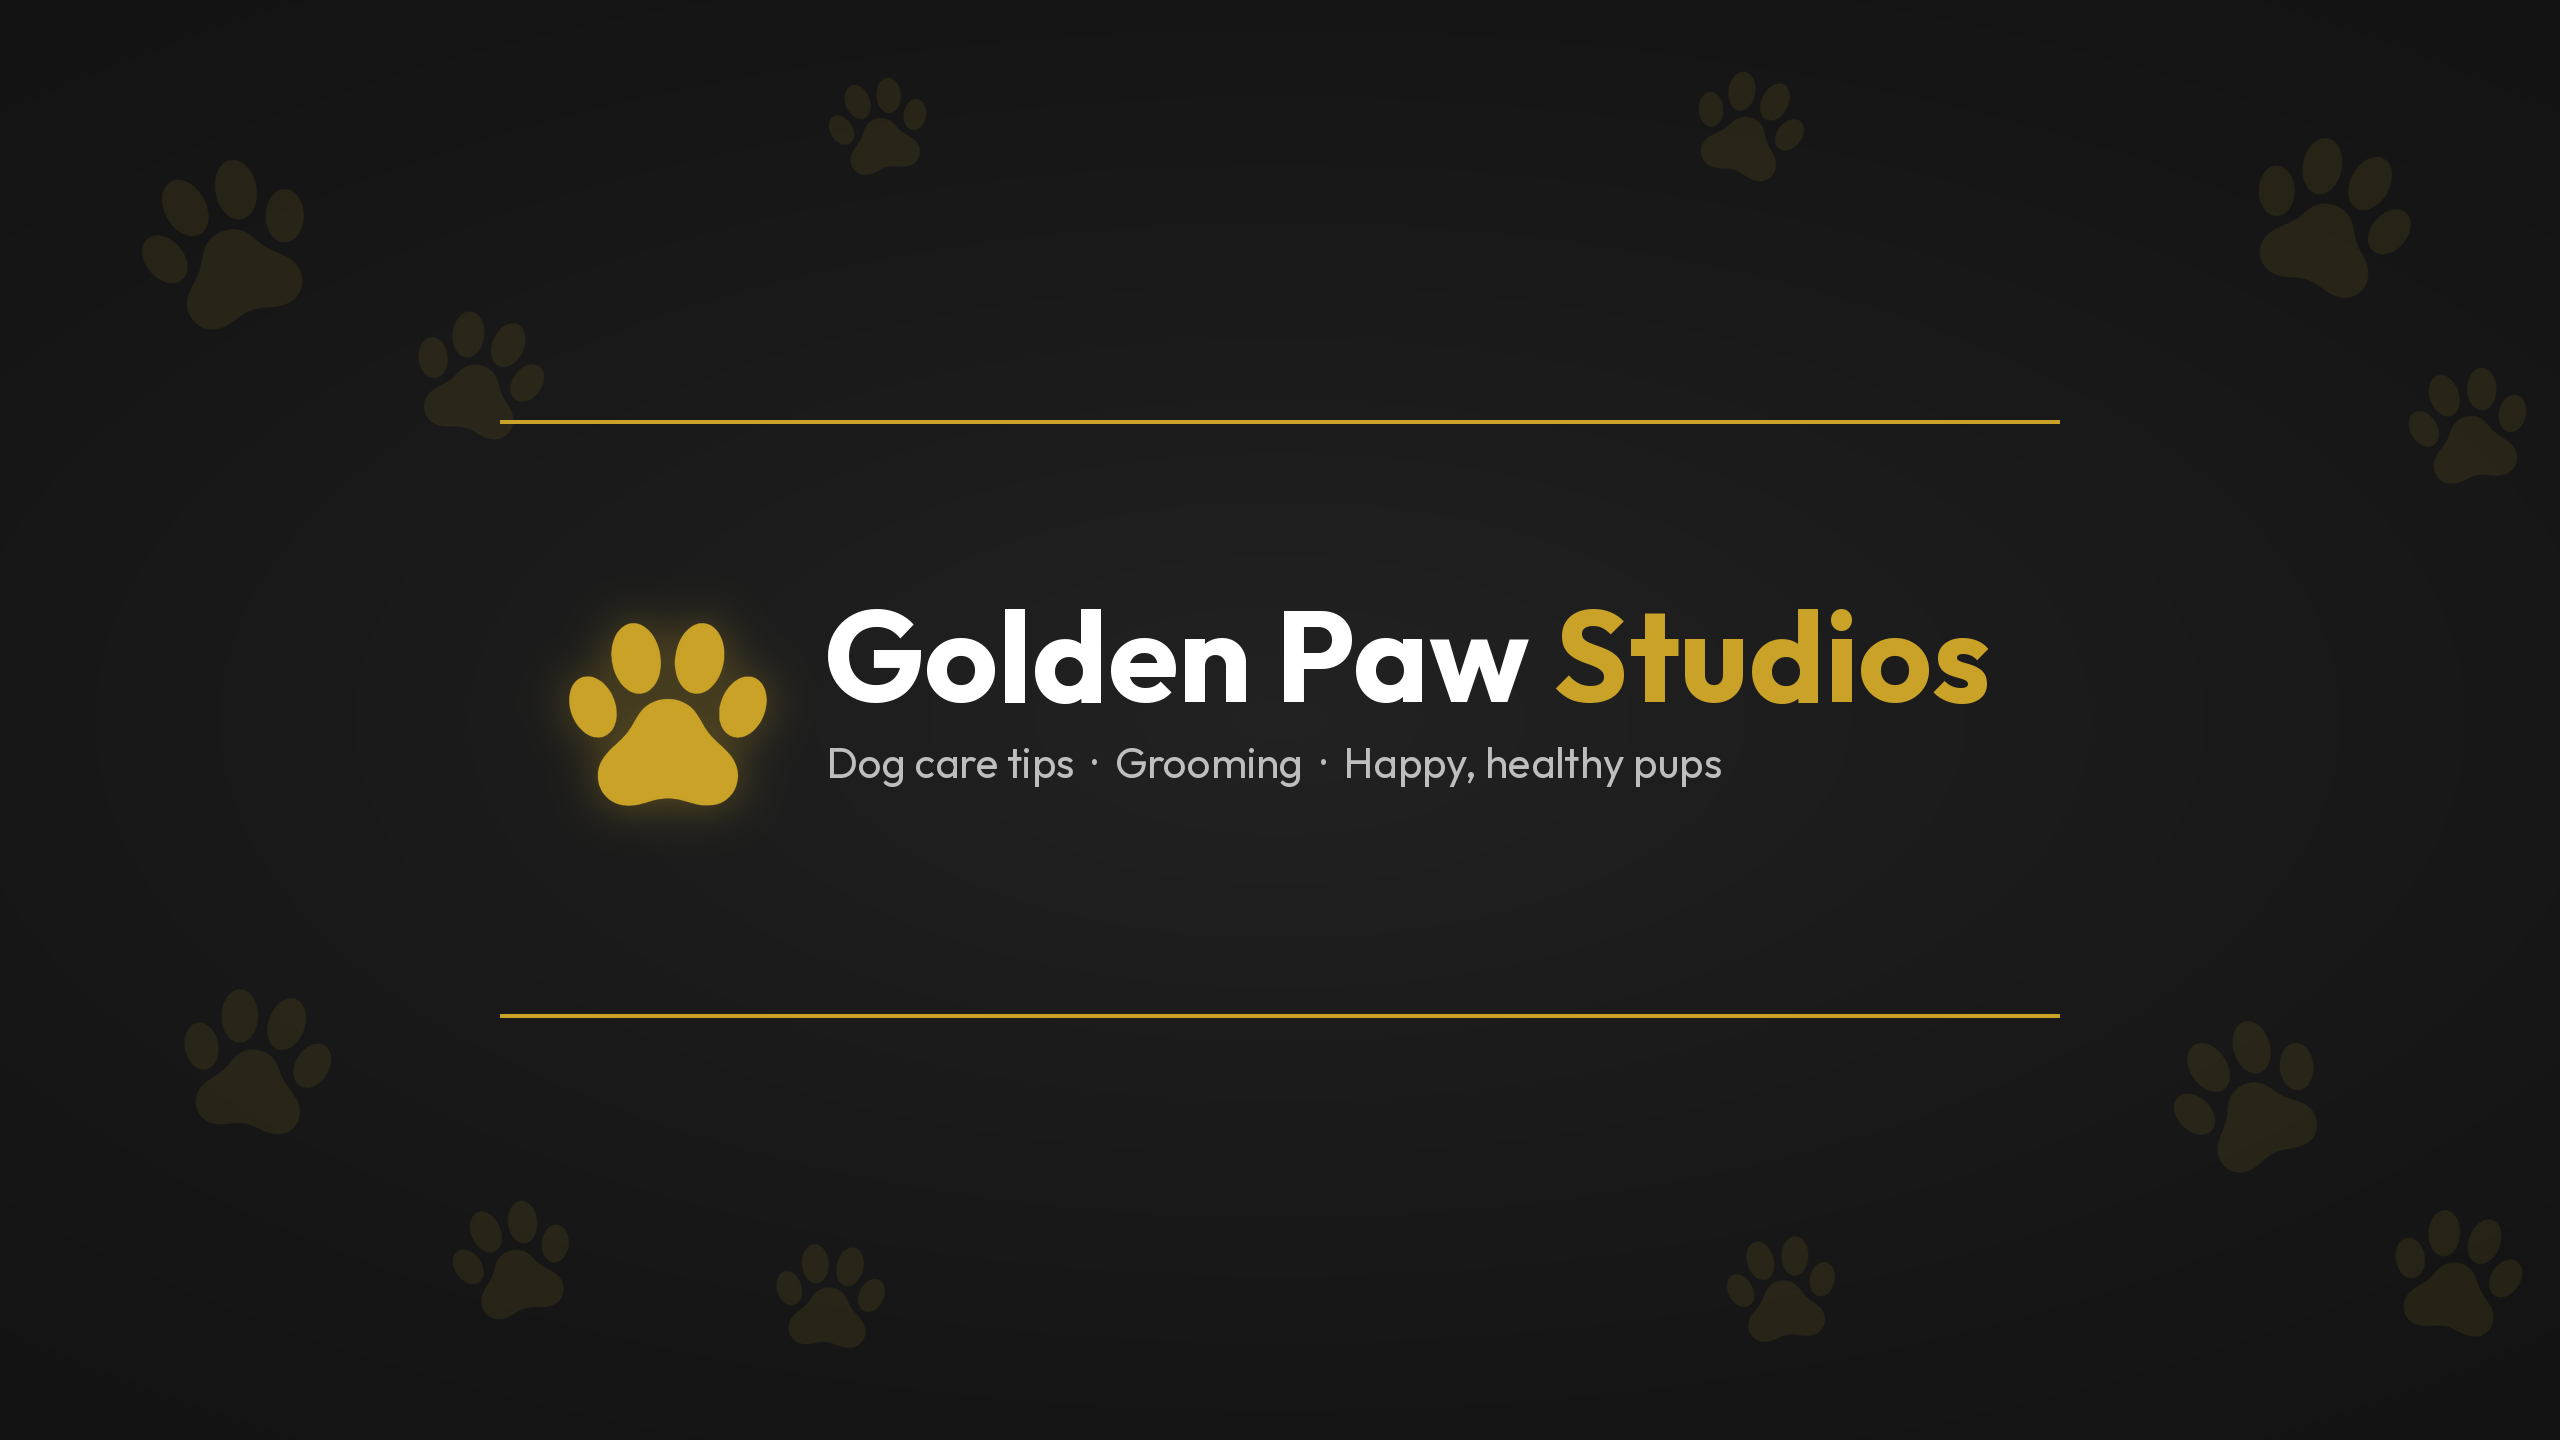
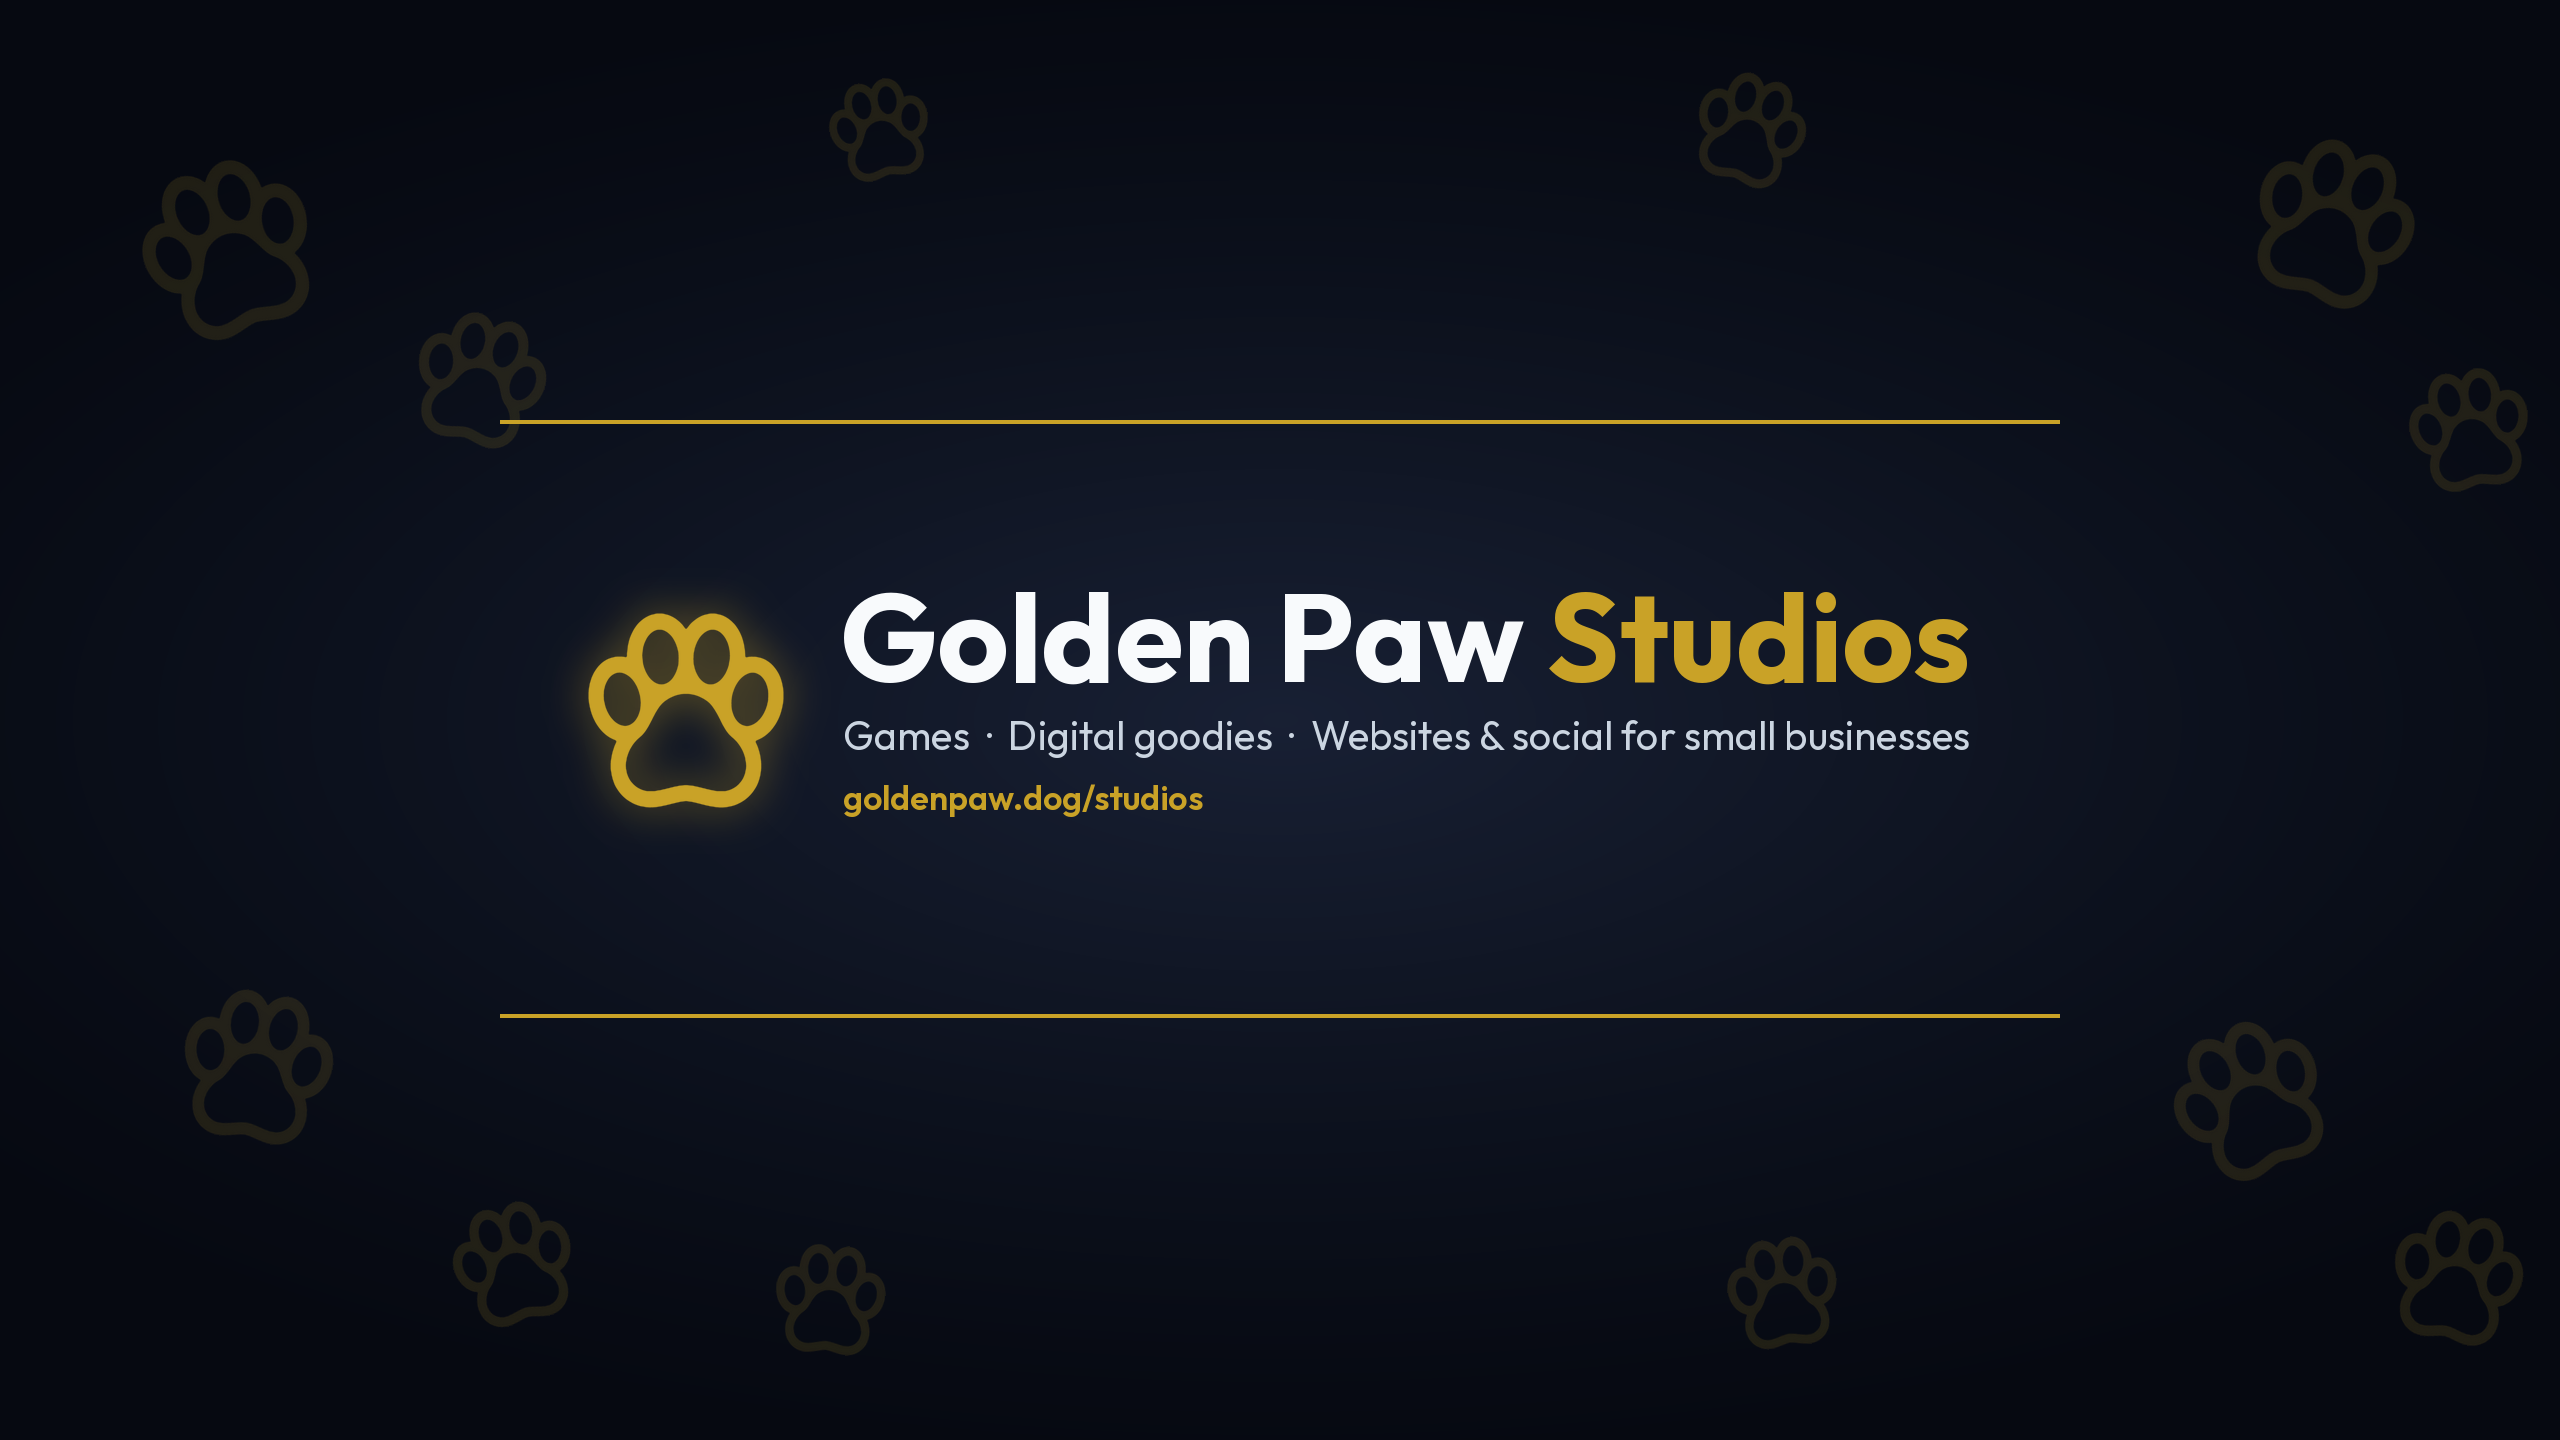
Refocus YouTube branding on Golden Paw Studios services
Navy and gold banner using the Studios paw and Outfit, matching
goldenpaw.dog/studios, plus a rewritten description and keywords.

Claude-Session: https://claude.ai/code/session_01JyzaP74KMfWwaccCR14Qz6

diff --git a/branding/youtube/source/make_banner.py b/branding/youtube/source/make_banner.py
@@ -1,63 +1,76 @@
 import sys
 from PIL import Image, ImageDraw, ImageFont, ImageFilter
 SITE, OUT = sys.argv[1], sys.argv[2]
-BG=(18,18,18); BG_L=(34,34,34); GOLD=(201,162,39); WHITE=(255,255,255); GREY=(190,190,190)
-def outfit(size, wght):
-    f = ImageFont.truetype(SITE+'/Outfit-Variable.ttf', size); f.set_variation_by_axes([wght]); return f
+NAVY=(11,15,25); NAVY_D=(6,9,17); NAVY_L=(24,32,52); GOLD=(201,162,39); TEXT=(248,250,252); TEXT_L=(203,213,225); MUTED=(148,163,184)
+def outfit(size, w):
+    f = ImageFont.truetype(SITE+'/Outfit-Variable.ttf', size); f.set_variation_by_axes([w]); return f
+# Solid paw mask from the site's icon, cleaned and padded
 src = Image.open(SITE+'/Icon-512.png').convert('RGBA'); src = src.crop(src.getbbox())
-_p = Image.new('RGBA', (src.width+40, src.height+40), (0,0,0,0)); _p.paste(src, (20,20)); src = _p
-_a = src.getchannel('A').point(lambda v: 255 if v > 90 else 0).resize((src.width*4, src.height*4), Image.LANCZOS)
-_a = _a.filter(ImageFilter.GaussianBlur(10)).point(lambda v: 255 if v > 128 else 0).resize(src.size, Image.LANCZOS)
-src = Image.new('RGBA', src.size, GOLD+(255,)); src.putalpha(_a)
-src = src.crop(src.getbbox())
+pad = Image.new('L', (src.width+80, src.height+80), 0); pad.paste(src.getchannel('A').point(lambda v: 255 if v>90 else 0), (40,40))
+big = pad.resize((pad.width*4, pad.height*4), Image.LANCZOS).filter(ImageFilter.GaussianBlur(10)).point(lambda v: 255 if v>128 else 0)
+def outline_mask(stroke_frac):
+    """Outline paw like the Studios icon: the shape minus a rounded inset copy of itself."""
+    r = big.width*stroke_frac
+    inner = big.filter(ImageFilter.GaussianBlur(r)).point(lambda v: 255 if v > 250 else 0)
+    inner = inner.filter(ImageFilter.GaussianBlur(4)).point(lambda v: 255 if v > 128 else 0)
+    m = big.copy(); m.paste(0, mask=inner)
+    return m.filter(ImageFilter.GaussianBlur(2))
+_si = Image.open(SITE+'/studios_icon.png').convert('RGBA').getchannel('A')
+_si = _si.crop(_si.getbbox()); _sp = Image.new('L', (_si.width+24, _si.height+24), 0); _sp.paste(_si, (12,12))
+_up = _sp.resize((_sp.width*8, _sp.height*8), Image.LANCZOS).filter(ImageFilter.GaussianBlur(7)).point(lambda v: 255 if v > 128 else 0)
+OUT_MASK = _up.filter(ImageFilter.GaussianBlur(2))  # the Studios paw from goldenpaw.dog/studios, upscaled
+def paw(w, alpha=255, mask=None):
+    mk = (mask or OUT_MASK); bb = mk.getbbox(); mk = mk.crop(bb)
+    mk = mk.resize((w, int(w*mk.height/mk.width)), Image.LANCZOS).point(lambda v: v*alpha//255)
+    p = Image.new('RGBA', mk.size, GOLD+(0,)); p.putalpha(mk); return p
 def glow_of(m, strength, radius):
-    pad = radius*3; g = Image.new('RGBA', (m.width+2*pad, m.height+2*pad), GOLD+(0,))
-    a = Image.new('L', g.size, 0); a.paste(m.getchannel('A').point(lambda v: int(v*strength)), (pad, pad))
-    g.putalpha(a.filter(ImageFilter.GaussianBlur(radius))); return g, pad
-def paw(w, alpha=255, color=GOLD):
-    p = src.resize((w, int(w*src.height/src.width)), Image.LANCZOS)
-    a = p.getchannel('A').point(lambda v: v*alpha//255)
-    out = Image.new('RGBA', p.size, color+(0,)); out.putalpha(a); return out
+    pd = radius*3; g = Image.new('RGBA', (m.width+2*pd, m.height+2*pd), GOLD+(0,))
+    a = Image.new('L', g.size, 0); a.paste(m.getchannel('A').point(lambda v: int(v*strength)), (pd, pd))
+    g.putalpha(a.filter(ImageFilter.GaussianBlur(radius))); return g, pd
+def backdrop(W, H, cx, cy, rx, ry):
+    img = Image.new('RGB', (W,H), NAVY_D); g = Image.new('L', (W,H), 0); gd = ImageDraw.Draw(g)
+    for r in range(100, 0, -1):
+        f = r/100; gd.ellipse([cx-rx*f, cy-ry*f, cx+rx*f, cy+ry*f], fill=int(255*(1-f)**1.3))
+    img.paste(Image.new('RGB',(W,H),NAVY_L), mask=g); return img.convert('RGBA')
+
+# ---------- Banner ----------
 W,H = 2560,1440
-ban = Image.new('RGB', (W,H), BG)
-g = Image.new('L', (W,H), 0); gd = ImageDraw.Draw(g)
-for r in range(1400, 0, -6):   # soft spotlight behind the safe area
-    gd.ellipse([1280-r*1.6, 720-r*0.75, 1280+r*1.6, 720+r*0.75], fill=int(255*(1-r/1400)**1.4))
-ban.paste(Image.new('RGB',(W,H),BG_L), mask=g); ban = ban.convert('RGBA')
+ban = backdrop(W, H, 1280, 720, 1700, 760)
+solid = big.filter(ImageFilter.GaussianBlur(1))
 for x,y,a,s in [(120,140,-20,170),(400,300,15,130),(170,980,10,150),(440,1190,-15,120),(2230,120,20,160),
                 (2400,360,-10,120),(2150,1000,-25,150),(2380,1200,12,130),(770,1240,5,110),(1720,1230,-8,110),
                 (820,70,-12,100),(1680,60,18,110)]:
-    ban.alpha_composite(paw(s, 26).rotate(-a, expand=True, resample=Image.BICUBIC), (x, y))
+    ban.alpha_composite(paw(s, 34).rotate(-a, expand=True, resample=Image.BICUBIC), (x, y))
 d = ImageDraw.Draw(ban)
 for yy in (420, 1014):
     for x in range(500, 2060):
         t = 1 - abs((x-1280)/780)**2
-        d.line([(x,yy),(x,yy+3)], fill=GOLD+(int(220*max(0,t)),))
-title = outfit(128, 700); sub = outfit(42, 400)
-mark = paw(200)
-glow, gpad = glow_of(mark, 0.4, 22)
+        d.line([(x,yy),(x,yy+3)], fill=GOLD+(int(200*max(0,t)),))
+title = outfit(124, 700); sub = outfit(40, 400); url = outfit(34, 600)
+mark = paw(196); glow, gpad = glow_of(mark, 0.55, 20)
 t1, t2 = 'Golden Paw ', 'Studios'
 w1 = d.textlength(t1, font=title); w2 = d.textlength(t2, font=title)
-tag = 'Dog care tips  ·  Grooming  ·  Happy, healthy pups'
-block = mark.width + 56 + max(w1+w2, d.textlength(tag, font=sub)); x0 = int((W-block)/2); cy = 720
-my = cy - mark.height//2 - 6
-ban.alpha_composite(glow, (x0-gpad, my-gpad))
-ban.alpha_composite(mark, (x0, my))
-tx = x0 + mark.width + 56
-d.text((tx, cy-18), t1, font=title, fill=WHITE, anchor='ls')
-d.text((tx+w1, cy-18), t2, font=title, fill=GOLD, anchor='ls')
-d.text((tx+3, cy+58), tag, font=sub, fill=GREY, anchor='ls')
+tag = 'Games  ·  Digital goodies  ·  Websites & social for small businesses'
+wt = d.textlength(tag, font=sub)
+gap = 56; block = mark.width + gap + max(w1+w2, wt); x0 = int((W-block)/2); cy = 706
+my = cy - mark.height//2 + 4
+ban.alpha_composite(glow, (x0-gpad, my-gpad)); ban.alpha_composite(mark, (x0, my))
+tx = x0 + mark.width + gap
+d.text((tx, cy-24), t1, font=title, fill=TEXT, anchor='ls')
+d.text((tx+w1, cy-24), t2, font=title, fill=GOLD, anchor='ls')
+d.text((tx+3, cy+44), tag, font=sub, fill=TEXT_L, anchor='ls')
+d.text((tx+3, cy+104), 'goldenpaw.dog/studios', font=url, fill=GOLD, anchor='ls')
+assert x0 >= 507 and x0+block <= 2053, ('outside safe area', x0, x0+block)
 ban.convert('RGB').save(OUT+'/banner-2560x1440.png', optimize=True)
-pv = ban.convert('RGB').resize((1280,720), Image.LANCZOS); pd = ImageDraw.Draw(pv); lf = outfit(20, 500)
+pv = ban.convert('RGB').resize((1280,720), Image.LANCZOS); pd_ = ImageDraw.Draw(pv); lf = outfit(20, 500)
 for (a,b,c,e,lab,col) in [(0,254,2560,1186,'Desktop',(80,160,255)),(507,508,2053,931,'Phone (safe area)',(255,90,90))]:
-    pd.rectangle([a/2,b/2,c/2-1,e/2], outline=col, width=3); pd.text((a/2+8,b/2+6), lab, fill=col, font=lf)
+    pd_.rectangle([a/2,b/2,c/2-1,e/2], outline=col, width=3); pd_.text((a/2+8,b/2+6), lab, fill=col, font=lf)
 pv.save(OUT+'/banner-crop-preview.png', optimize=True)
-# matching profile picture: site paw on dark background
-pp = Image.new('RGBA', (800,800), BG+(255,)); gg = Image.new('L',(800,800),0); ggd = ImageDraw.Draw(gg)
-for r in range(560,0,-4): ggd.ellipse([400-r,400-r,400+r,400+r], fill=int(255*(1-r/560)**1.2))
-pp.paste(Image.new('RGBA',(800,800),BG_L+(255,)), mask=gg)
-m = paw(440); gl, gp = glow_of(m, 0.35, 24)
-pp.alpha_composite(gl, ((800-m.width)//2-gp, (800-m.height)//2-gp))
-pp.alpha_composite(m, ((800-m.width)//2, (800-m.height)//2))
+
+# ---------- Profile picture ----------
+pp = backdrop(800, 800, 400, 400, 560, 560)
+m = paw(430); gl, gp = glow_of(m, 0.5, 22)
+x, y = (800-m.width)//2, (800-m.height)//2
+pp.alpha_composite(gl, (x-gp, y-gp)); pp.alpha_composite(m, (x, y))
 pp.convert('RGB').save(OUT+'/profile-picture-800x800.png', optimize=True)
-print('ok')
+print('ok', x0, x0+block)

diff --git a/branding/youtube/channel-copy.md b/branding/youtube/channel-copy.md
@@ -1,46 +1,47 @@
 # Golden Paw Studios — YouTube channel setup
 
+Focus: Golden Paw Studios (goldenpaw.dog/studios) and its services, with the Golden Paw game as one of the studio's products. Wording follows the Studios page.
+
 ## Identity (set in YouTube Studio → Customisation → Basic info)
 
 - **Name:** Golden Paw Studios
-- **Handle:** @goldenpawstudios
-- **Profile picture:** `profile-picture-800x800.png`
+- **Handle:** @goldenpawstudios (matches the TikTok handle)
+- **Profile picture:** `profile-picture-800x800.png` (the Studios paw on navy)
 - **Banner:** `banner-2560x1440.png`
 
-## Description (applied via API — 1,000 character limit)
+## Description (applied via API, 1,000 character limit)
 
 ```
-Welcome to Golden Paw Studios 🐾
+Golden Paw Studios 🐾 A small independent studio in the UK. We're dog lovers who make games, digital goodies and websites.
 
-Practical, friendly dog care for owners, groomers and dog walkers. We share simple routines and honest advice to help every dog live a happy, healthy life.
+💻 Services for small businesses
+• Small business websites, live in 72 hours
+• Website care plans: hosting, edits and uptime monitoring
+• Website speed & SEO audits
+• Custom Chrome extensions
+• Monthly social media packs
+Fixed prices, a free preview before you pay, and no jargon.
 
-On this channel:
-• Grooming tutorials, from brushing and bathing to nail trims
-• Daily care routines: feeding, exercise and health checks
-• Tips for starting and growing a grooming or dog-walking business
-• Printable planners and tools to keep your pup's care on track
+🛍 Digital goodies
+Wallpapers, printable planners, colouring books and custom pet portraits.
 
-New videos regularly. Subscribe and turn on notifications so you don't miss one.
+🎮 Our games
+Golden Paw: raise your own Shiba Inu in our virtual pet game (18+).
 
-🛍 Planners and starter kits: https://ludogx.gumroad.com
+🔗 Services & shop: https://goldenpaw.dog/studios
+🎮 Play: https://goldenpaw.dog
+📱 TikTok @goldenpawstudios · Instagram @goldenpawdoge
 
-Golden Paw Studios offers general guidance only. Always talk to your vet about your dog's health.
+Golden Paw is entertainment for adults (18+), not an investment.
 ```
 
-## Keywords (applied via API — 500 character limit)
+## Keywords (applied via API, 500 character limit)
 
 ```
-"Golden Paw Studios" "dog care" "dog grooming" "dog grooming at home" "puppy care" "dog care tips" "dog walker" "dog grooming business" "dog health" "dog training tips" "pet care" "dog owner tips" "dog care routine"
+"Golden Paw Studios" "Golden Paw" "small business website" "website design UK" "website care plan" "SEO audit" "Chrome extension" "social media for small business" "indie game studio" "virtual pet game" "Shiba Inu" "dog lovers" "custom pet portrait" "printables"
 ```
 
 ## Other settings (applied via API)
 
 - **Country:** United Kingdom
 - **Default language:** English
-
-## Homepage layout (once there are videos)
-
-1. Trailer for non-subscribers: a 30–60 second "Welcome to Golden Paw Studios" video
-2. Section: Recent uploads
-3. Section: Popular uploads
-4. Playlists: Grooming at home · Daily care · Dog care business
